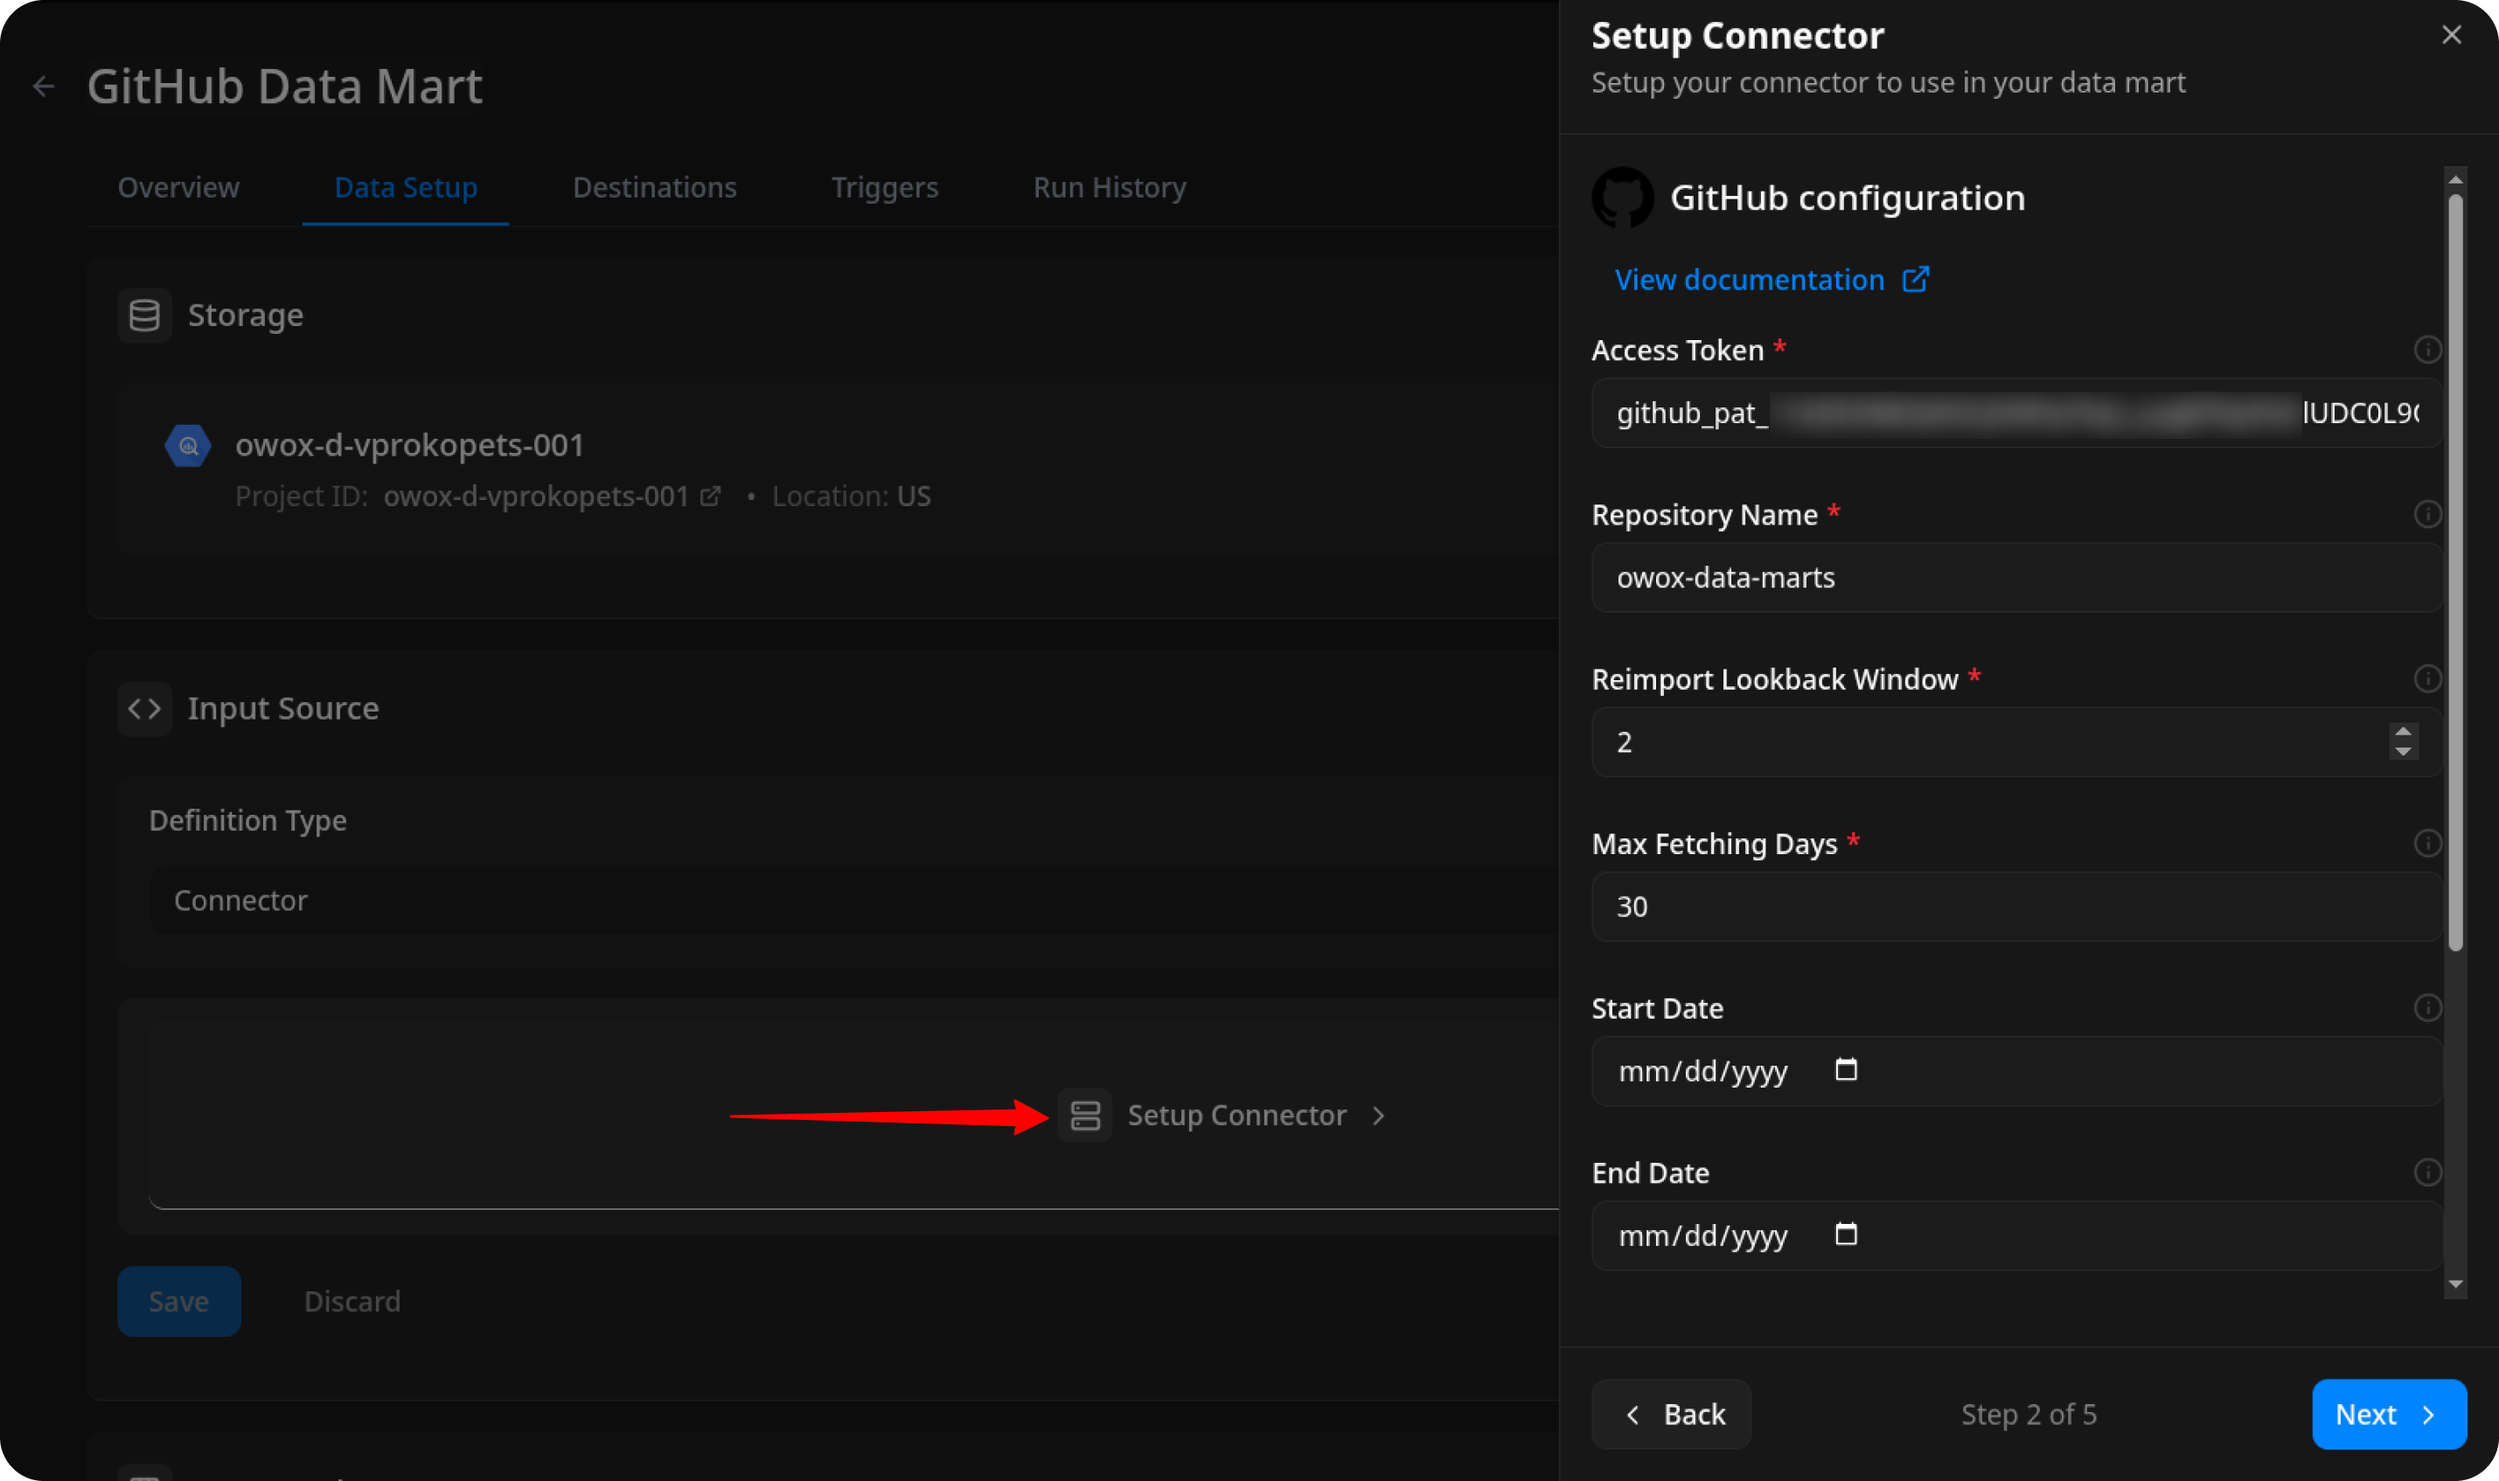
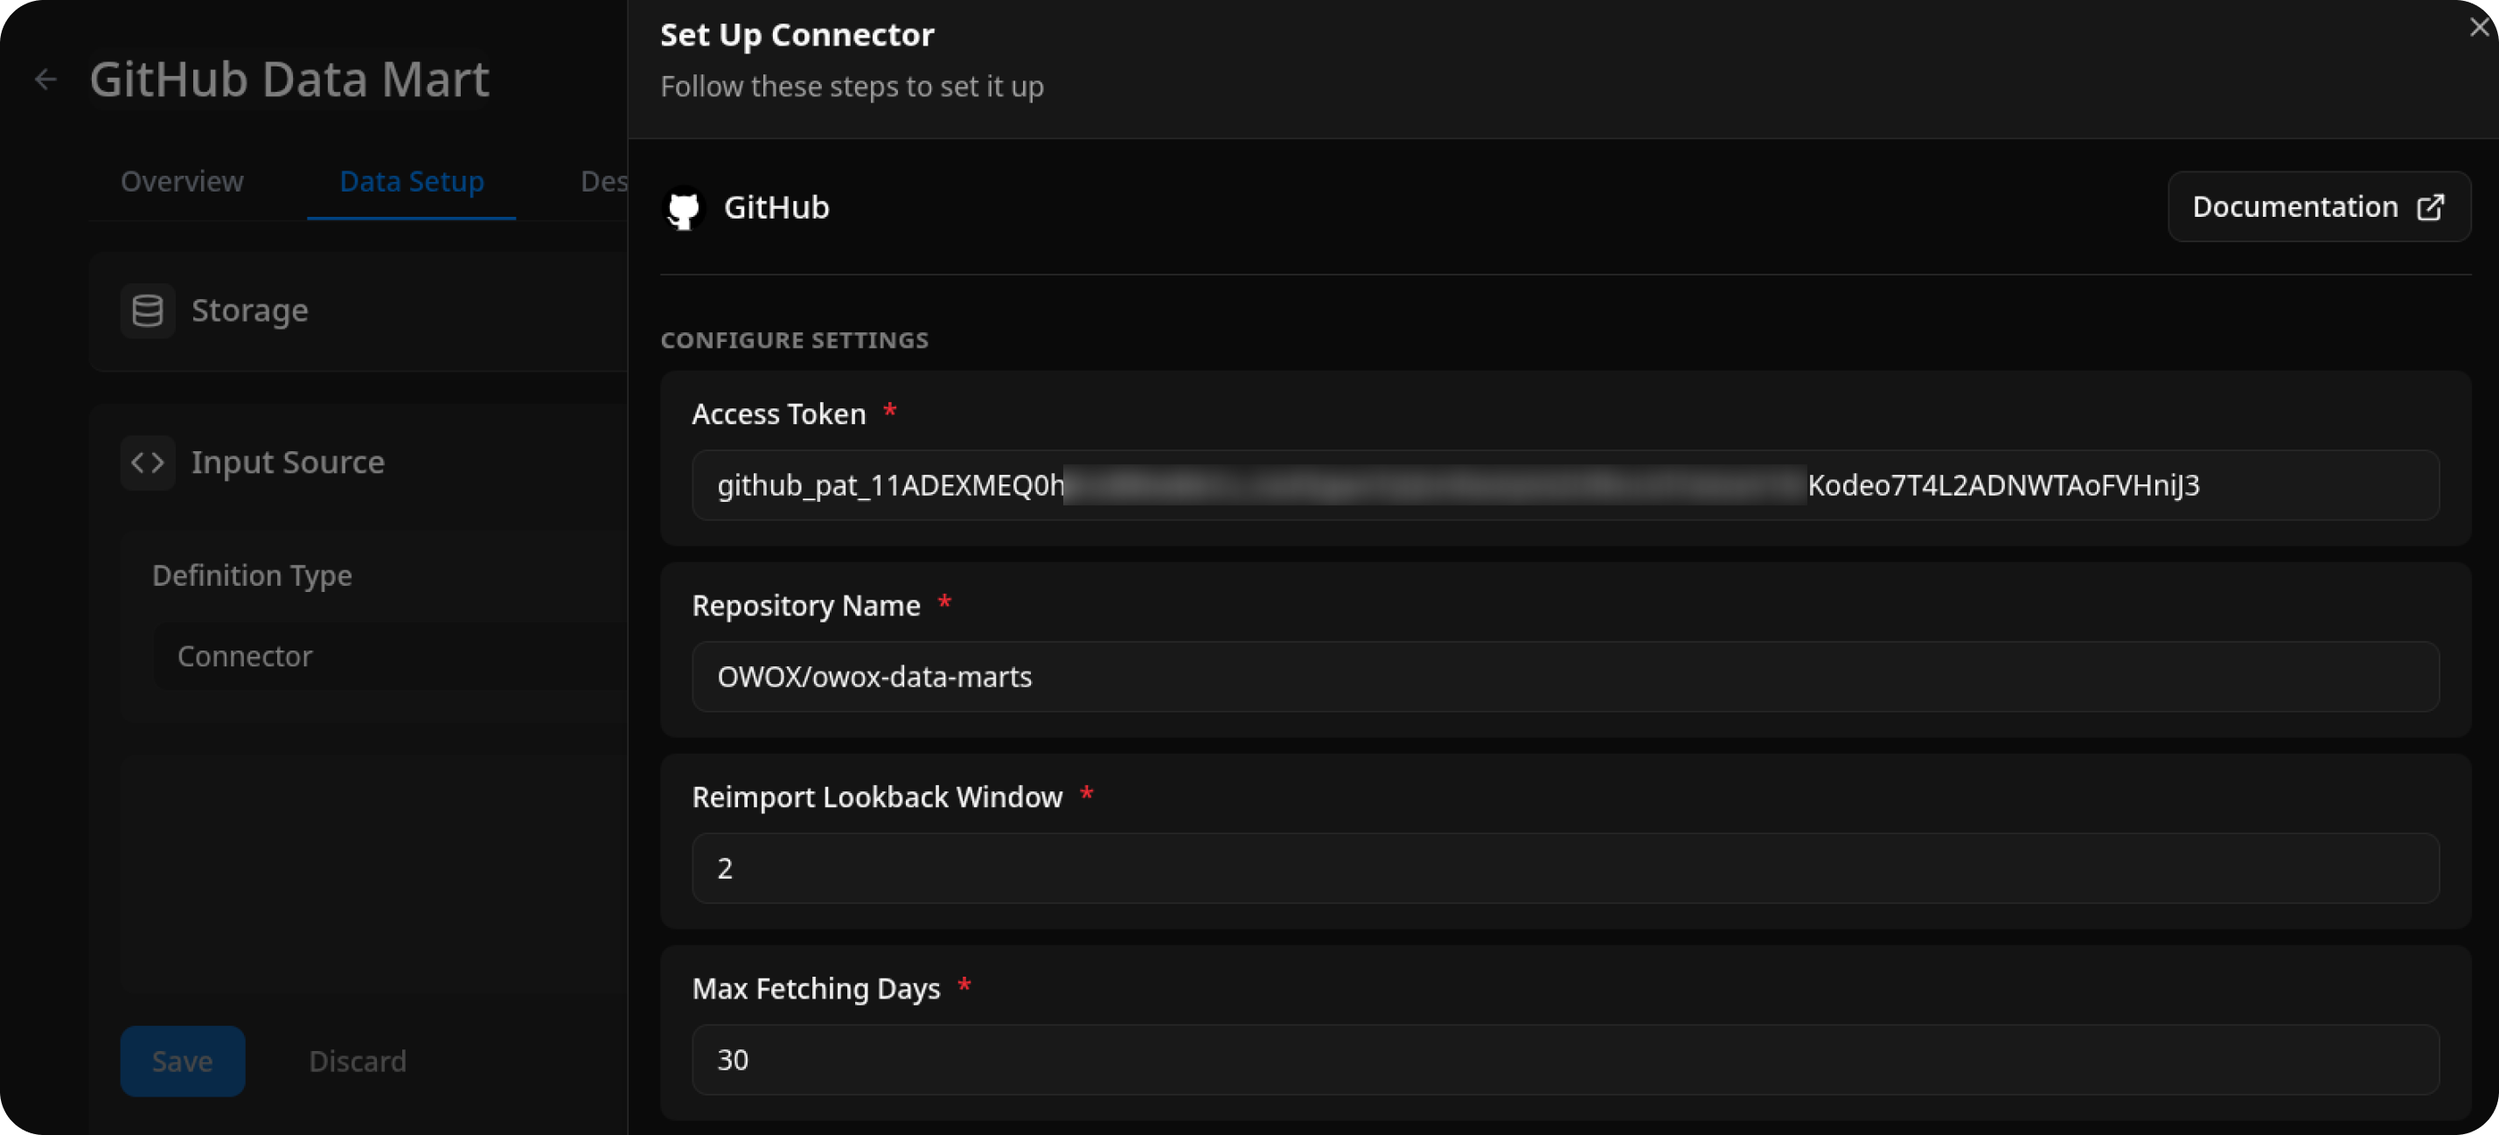
fix(docs): clarify repository name format in GitHub connector setup instructions feat(backend): handle GitHub API error for non-existent repositories chore: update GitHub connector images

diff --git a/packages/connectors/src/Sources/GitHub/Source.js b/packages/connectors/src/Sources/GitHub/Source.js
@@ -142,7 +142,18 @@ var GitHubSource = class GitHubSource extends AbstractSource {
     });
     const result = JSON.parse(response.getContentText());
 
+    // Check for GitHub API error response
+    if (result && result.message === 'Not Found') {
+      throw new Error(
+        "The repository was not found. The repository name should be in the format: owner/repo"
+      );
+    }
+
     return result;
+  } catch (error) {
+    this.config.logMessage(`Error: ${error.message}`);
+    console.error(error.stack);
+    return null;
   }
 
   /**
@@ -167,6 +178,7 @@ var GitHubSource = class GitHubSource extends AbstractSource {
       }
       return result;
     });
-  }
-    
+  } 
+
 }
+

diff --git a/packages/connectors/src/Sources/GitHub/GETTING_STARTED.md b/packages/connectors/src/Sources/GitHub/GETTING_STARTED.md
@@ -18,7 +18,9 @@ Before proceeding, please make sure that you have [set up **OWOX Data Marts**](h
 2. Click **Set up connector** and choose **GitHub**.  
 3. Fill in the required fields:
     - **Access token** – paste the token you generated on [GitHub personal access tokens page](https://github.com/settings/personal-access-tokens).
-    - **Repository Name** – you can find it on the main page of your repository on GitHub.
+    - **Repository Name** – enter the full repository path in the format `owner/repo`.  
+      - You can find this on the main page of your repository on GitHub.  
+      - Example: `OWOX/owox-data-marts`  
     - Leave the other fields as default and proceed to the next step.
 
 ![GitHub Input Source](res/github_connector.png)
